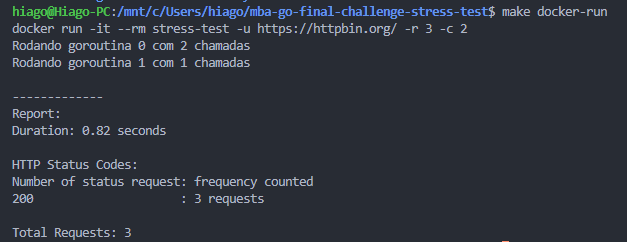
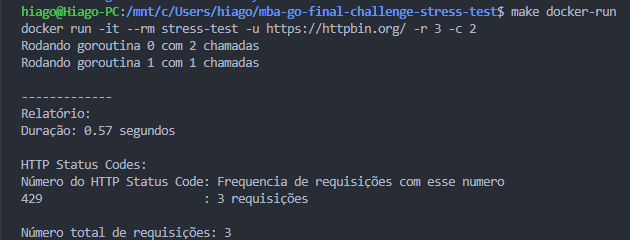
refactor: change generate report use case to make report in portuguese and add run command on makefile

diff --git a/internal/usecase/generate-report.go b/internal/usecase/generate-report.go
@@ -19,17 +19,17 @@ func NewGenerateReportUseCase() *GenerateReportUseCase {
 
 func (uc *GenerateReportUseCase) Execute(input GenerateReportInputDTO) (string, error) {
 	report := "\n-------------\n"
-	report += "Report:\n"
-	report += "Duration: " + fmt.Sprintf("%.2f", input.Duration) + " seconds\n\n"
+	report += "Relatório:\n"
+	report += "Duração: " + fmt.Sprintf("%.2f", input.Duration) + " segundos\n\n"
 	report += "HTTP Status Codes:\n"
-	report += "Number of status request: frequency counted\n"
+	report += "Número do HTTP Status Code: Frequencia de requisições com esse numero\n"
 	numberOfRequests := 0
 
 	for statusCode, count := range input.SetHTTPStatusCodes {
-		report += fmt.Sprintf("%d 			: %s\n", statusCode, strconv.Itoa(count) + " requests")
+		report += fmt.Sprintf("%d 			  : %s\n", statusCode, strconv.Itoa(count) + " requisições")
 		numberOfRequests += count
 	}
-	report += fmt.Sprintf("\nTotal Requests: %d\n", numberOfRequests)
+	report += fmt.Sprintf("\nNúmero total de requisições: %d\n", numberOfRequests)
 
 	return report, nil
 }
